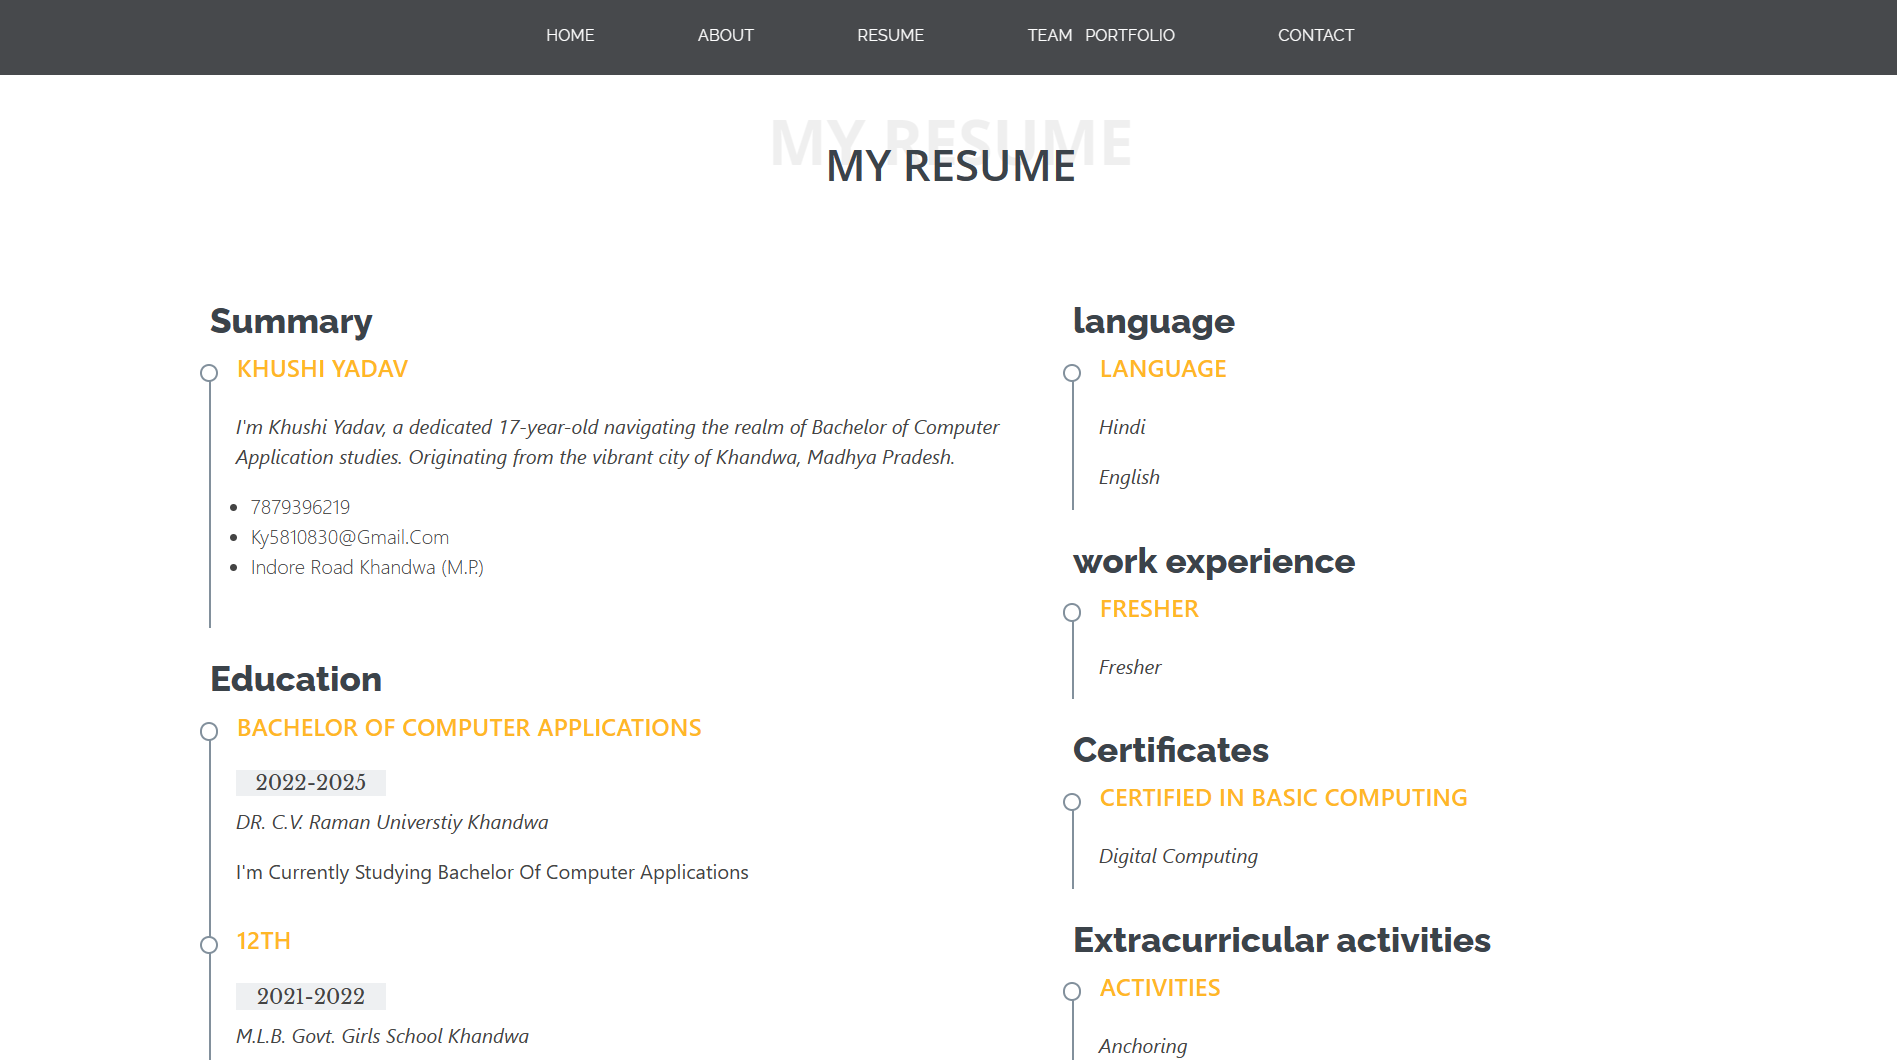
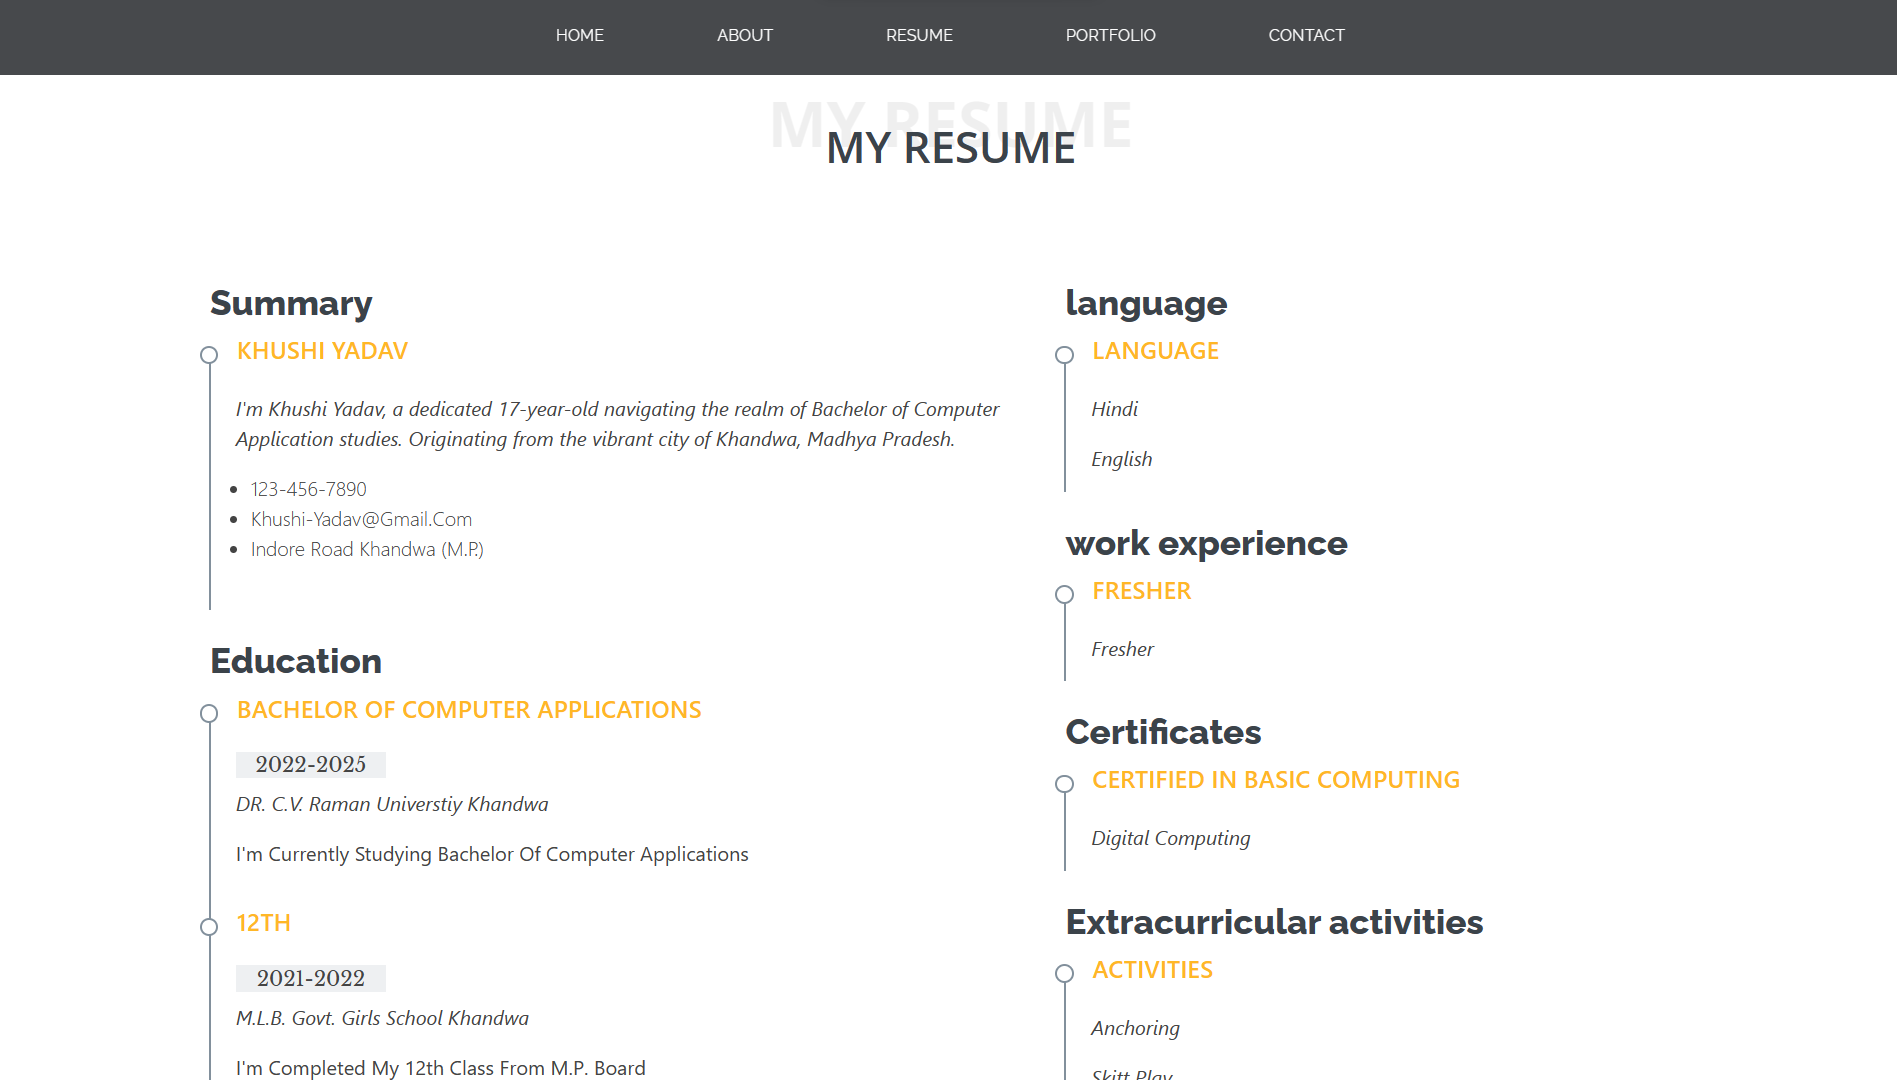
number hide

diff --git a/khushifolder/index.html b/khushifolder/index.html
@@ -811,14 +811,14 @@
             <div class="info">
                 <div class="info1">
                     <p><i class="fa-solid fa-chevron-right"></i>&nbsp; Name : &nbsp; <span>Khushi Yadav</span></p>
-                    <p><i class="fa-solid fa-chevron-right"></i>&nbsp; Mobile No : &nbsp; <span>7879396219</span></p>
+                    <p><i class="fa-solid fa-chevron-right"></i>&nbsp; Mobile No : &nbsp; <span>123-456-7890</span></p>
                     <p><i class="fa-solid fa-chevron-right"></i>&nbsp; City : &nbsp; <span>Khandwa</span></p>
                     <p><i class="fa-solid fa-chevron-right"></i>&nbsp; Country : &nbsp; <span>India</span></p>
                 </div>
                 <div class="info1">
                     <p><i class="fa-solid fa-chevron-right"></i>&nbsp; degree : &nbsp; <span>Bachelor of Computer Applications</span></p>
                     <p><i class="fa-solid fa-chevron-right"></i>&nbsp; date of birth : &nbsp; <span>03-09-2006</span></p>
-                    <p><i class="fa-solid fa-chevron-right"></i>&nbsp; email : &nbsp; <span><a href="mailto:ky5810830@gmail.com">ky<span>5810830</span>@gmail.com</a></span></p>
+                    <p><i class="fa-solid fa-chevron-right"></i>&nbsp; email : &nbsp; <span><a href="mailto:khushi-yadav@gmail.com">khushi-yadav@gmail.com</a></span></p>
                     <p><i class="fa-solid fa-chevron-right"></i>&nbsp; age : &nbsp; <span>17</span></p>
                 </div>
             </div>
@@ -882,8 +882,8 @@
               <p class="rasume_p"> I'm Khushi Yadav, a dedicated 17-year-old navigating the realm of Bachelor of Computer Application studies. Originating from the vibrant city of Khandwa, Madhya Pradesh.
               </p>
               <ul class="raume_list">
-                <li>7879396219</li>
-                <li>ky5810830@gmail.com</li>
+                <li>123-456-7890</li>
+                <li>khushi-yadav@gmail.com</li>
                 <li>Indore road khandwa (M.P.)</li>
               </ul>
              </div>
@@ -1001,12 +1001,12 @@
                 <div class="email">
                     <div class="icon1"><iconify-icon icon="ic:outline-email"></iconify-icon></div>
                     <div class="icon_h3"><h3>Email Me</h3></div> 
-                    <div class="icon_p"><p>ky5810830@gmail.com</p></div>
+                    <div class="icon_p"><p>khushi-yadav@gmail.com</p></div>
                 </div>
                 <div class="call">
                     <div class="icon1"><iconify-icon icon="ph:phone-call-bold"></iconify-icon></div>
                     <div class="icon_h3"><h3>Call Me</h3></div> 
-                    <div class="icon_p"><p>+91 78793 96219 </p></div>
+                    <div class="icon_p"><p>+91 1234 567890</p></div>
                 </div>
             </div>
         </div>

diff --git a/divya_Web_folder/index.html b/divya_Web_folder/index.html
@@ -74,7 +74,7 @@
           <div class="con1 col-6">
             <h2><i class="bi bi-chevron-double-right icon_ABOUT"></i>BirthDay-<span>14-03-2004</span></h2>
             <h2><i class="bi bi-chevron-double-right icon_ABOUT"></i>Age-<span>19 </span></h2>
-            <h2><i class="bi bi-chevron-double-right icon_ABOUT"></i>Phone No-<span>6261965413</span></h2>
+            <h2><i class="bi bi-chevron-double-right icon_ABOUT"></i>Phone No-<span>123-456-7890</span></h2>
             <h2><i class="bi bi-chevron-double-right icon_ABOUT"></i>Country-<span>India</span></h2>
 
 
@@ -82,7 +82,7 @@
           <div class="con2 col-6">
             <h2><i class="bi bi-chevron-double-right icon_ABOUT"></i>Degree-<span>Bachelor of Computer Application</span></h2>
             <h2><i class="bi bi-chevron-double-right icon_ABOUT"></i>Email Id- <span><a
-                  href="mailto:divyapanwar142004@gmail.com icon_ABOUT">divyapanwar@gmail.com</a></span></a></h2>
+                  href="mailto:divya-panwar@gmail.com icon_ABOUT">divyapanwar@gmail.com</a></span></a></h2>
             <h2><i class="bi bi-chevron-double-right icon_ABOUT"></i>City-<span>Bhakrada,Khandwa</span></h2>
           </div>
         </div>
@@ -147,8 +147,8 @@
             <p class="rasume_p"> I'm Divya Panwar, a dedicated 19-year-old navigating the realm of Bachelor of Computer Application studies. Originating from the vibrant city of Khandwa, Madhya Pradesh. Excited to kickstart my career as a Web Desinger and Make a positive impact in the digital world.
             </p>
             <ul class="raume_list">
-              <li>6261965413</li>
-              <li>divyapanwar142004@gmail.com</li>
+              <li>123-456-7890</li>
+              <li>divya-panwar@gmail.com</li>
               <li>Matachok Bhakrada khandwa (M.P.)</li>
             </ul>
            </div>
@@ -248,14 +248,14 @@
           <div class="one_box"><i class="bi bi-envelope"></i></div>
           <div class="two_box">
             <h2>Email:</h2>
-            <h3>divyapanwar142004@gmail.com</h3>
+            <h3>divya-panwar@gmail.com</h3>
           </div>
         </div>
         <div class="box_box">
           <div class="one_box"><i class="bi bi-phone"></i></div>
           <div class="two_box">
             <h2>Call:</h2>
-            <h3>6261965413</h3>
+            <h3>123-456-7890</h3>
           </div>
         </div>
       
